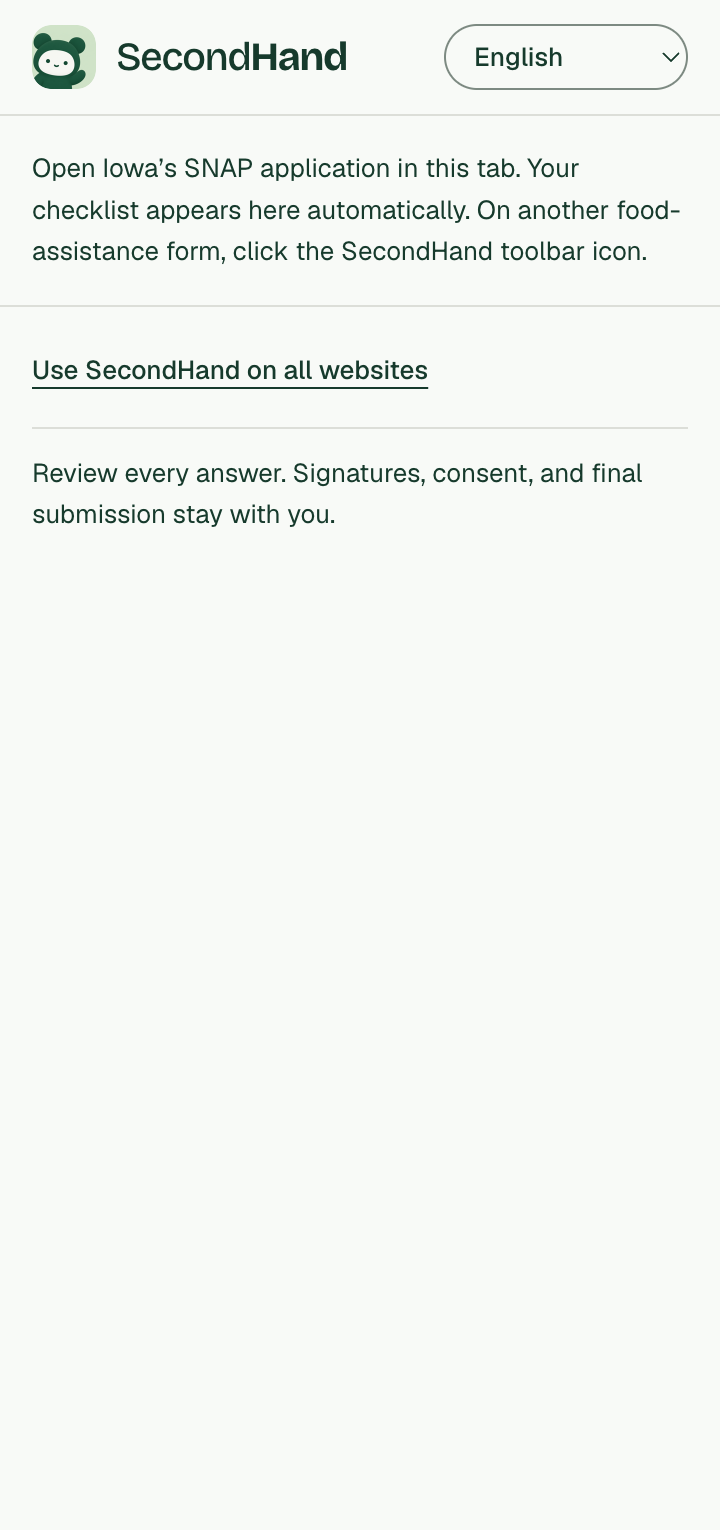
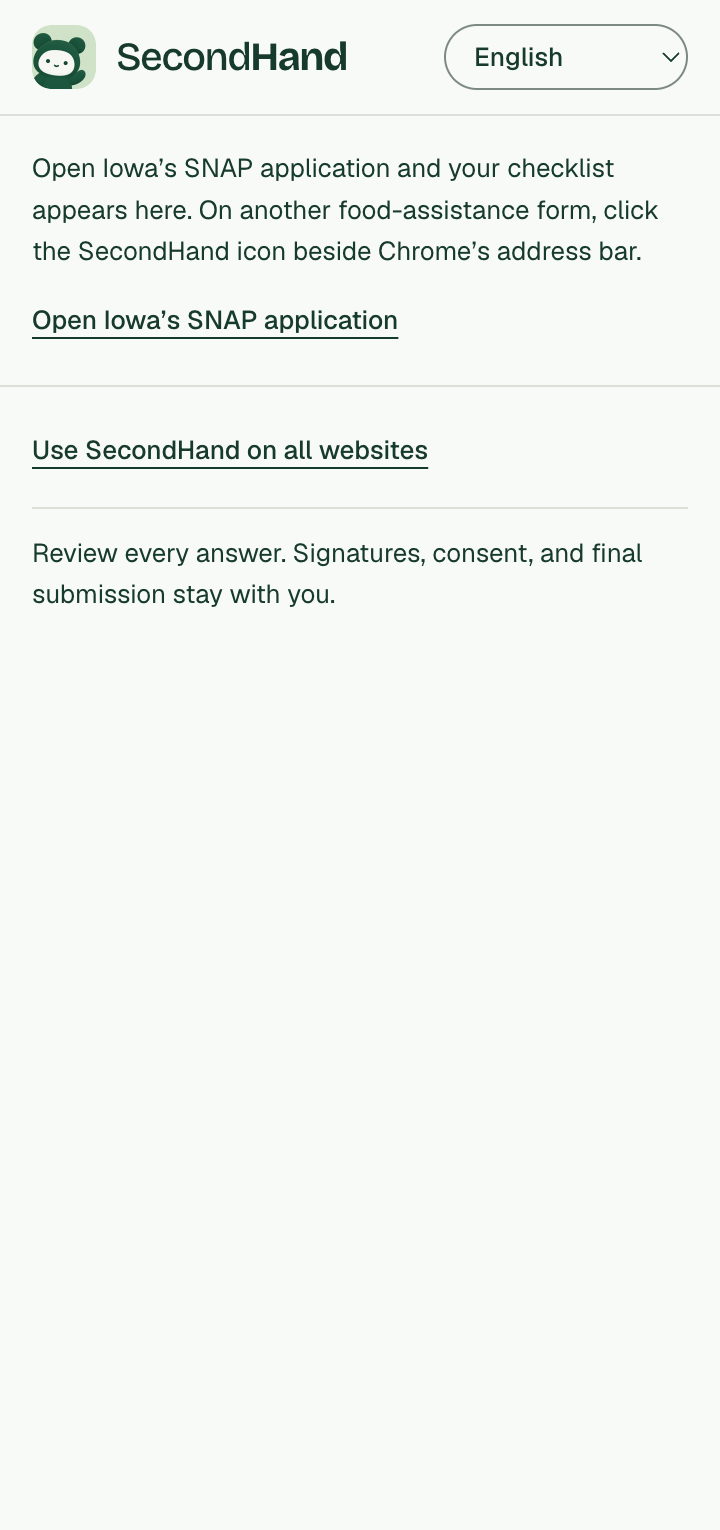
feat: link to Iowa's application where the side panel has nothing to read
On a tab SecondHand can't read, the side panel told people to open Iowa's
SNAP application and gave them no way to. It now ends in a link, "Open
Iowa's SNAP application", to the portal address SecondHand's Iowa script
runs on. It opens beside the page the reader has.

The line above it drops "in this tab" and "toolbar icon" for words
people know: "click the SecondHand icon beside Chrome's address bar".

Changed region(s): [[0.0306, 0.0922, 0.9472, 0.3993]]

diff --git a/extension/strings.js b/extension/strings.js
@@ -77,7 +77,8 @@
     'panel.reloadToRead': 'Reload this page so SecondHand can read it.',
     'panel.siteOff': 'SecondHand can fill forms on {host} after you turn it on here and approve it in the SecondHand app.',
     'panel.nothingToFill': 'Nothing to fill on this page. Continue in Iowa’s form.',
-    'panel.openIowa': 'Open Iowa’s SNAP application in this tab. Your checklist appears here automatically. On another food-assistance form, click the SecondHand toolbar icon.',
+    'panel.openIowa': 'Open Iowa’s SNAP application and your checklist appears here. On another food-assistance form, click the SecondHand icon beside Chrome’s address bar.',
+    'panel.openIowaLink': 'Open Iowa’s SNAP application',
     'panel.stopping': 'Stopping autofill…',
     'panel.filling': 'Filling your saved answers…',
     'panel.fieldOffScreen': 'That field isn’t on screen right now. Find it in Iowa’s form.',
@@ -412,7 +413,8 @@
     'panel.reloadToRead': 'Recargue esta página para que SecondHand pueda leerla.',
     'panel.siteOff': 'SecondHand puede llenar formularios en {host} después de que lo active aquí y lo apruebe en la aplicación SecondHand.',
     'panel.nothingToFill': 'No hay nada que llenar en esta página. Continúe en el formulario de Iowa.',
-    'panel.openIowa': 'Abra la solicitud de SNAP de Iowa en esta pestaña. Su lista aparecerá aquí automáticamente. En otro formulario de ayuda alimentaria, haga clic en el ícono de SecondHand en la barra de herramientas.',
+    'panel.openIowa': 'Abra la solicitud de SNAP de Iowa y su lista aparecerá aquí. En otro formulario de ayuda alimentaria, haga clic en el ícono de SecondHand junto a la barra de direcciones de Chrome.',
+    'panel.openIowaLink': 'Abrir la solicitud de SNAP de Iowa',
     'panel.stopping': 'Deteniendo Autocompletar…',
     'panel.filling': 'Llenando sus respuestas guardadas…',
     'panel.fieldOffScreen': 'Ese campo no está en la pantalla ahora. Búsquelo en el formulario de Iowa.',
@@ -744,7 +746,8 @@
     'panel.reloadToRead': 'Hãy tải lại trang này để SecondHand có thể đọc.',
     'panel.siteOff': 'SecondHand có thể điền biểu mẫu trên {host} sau khi bạn bật tại đây và chấp thuận trong ứng dụng SecondHand.',
     'panel.nothingToFill': 'Trang này không có gì để điền. Hãy tiếp tục trong biểu mẫu của Iowa.',
-    'panel.openIowa': 'Hãy mở đơn SNAP của Iowa trong thẻ này. Danh sách kiểm tra sẽ tự hiện ở đây. Với biểu mẫu hỗ trợ thực phẩm khác, hãy bấm biểu tượng SecondHand trên thanh công cụ.',
+    'panel.openIowa': 'Hãy mở đơn SNAP của Iowa, danh sách kiểm tra sẽ hiện ở đây. Với biểu mẫu hỗ trợ thực phẩm khác, hãy bấm biểu tượng SecondHand cạnh thanh địa chỉ của Chrome.',
+    'panel.openIowaLink': 'Mở đơn SNAP của Iowa',
     'panel.stopping': 'Đang dừng tự điền…',
     'panel.filling': 'Đang điền các câu trả lời đã lưu…',
     'panel.fieldOffScreen': 'Ô đó hiện không có trên màn hình. Hãy tìm nó trong biểu mẫu của Iowa.',
@@ -1077,7 +1080,8 @@
     'panel.reloadToRead': '请重新加载此页面，以便 SecondHand 读取。',
     'panel.siteOff': '在此处开启并在 SecondHand 应用中批准后，SecondHand 才能在 {host} 上填写表格。',
     'panel.nothingToFill': '此页面没有可填写的内容。请在爱荷华州的表格中继续。',
-    'panel.openIowa': '请在此标签页中打开爱荷华州的 SNAP 申请。您的核对清单会自动显示在这里。如果是其他食物援助表格，请点击工具栏上的 SecondHand 图标。',
+    'panel.openIowa': '打开爱荷华州的 SNAP 申请，您的核对清单就会显示在这里。如果是其他食物援助表格，请点击 Chrome 地址栏旁的 SecondHand 图标。',
+    'panel.openIowaLink': '打开爱荷华州的 SNAP 申请',
     'panel.stopping': '正在停止自动填写…',
     'panel.filling': '正在填写您保存的答案…',
     'panel.fieldOffScreen': '该栏位现在不在屏幕上。请在爱荷华州的表格中找到它。',
@@ -1410,7 +1414,8 @@
     'panel.reloadToRead': 'Rechargez cette page pour que SecondHand puisse la lire.',
     'panel.siteOff': 'SecondHand pourra remplir les formulaires sur {host} après que vous l’aurez activé ici et approuvé dans l’application SecondHand.',
     'panel.nothingToFill': 'Rien à remplir sur cette page. Continuez dans le formulaire de l’Iowa.',
-    'panel.openIowa': 'Ouvrez la demande SNAP de l’Iowa dans cet onglet. Votre liste de contrôle apparaîtra ici automatiquement. Pour un autre formulaire d’aide alimentaire, cliquez sur l’icône SecondHand de la barre d’outils.',
+    'panel.openIowa': 'Ouvrez la demande SNAP de l’Iowa et votre liste de contrôle apparaîtra ici. Pour un autre formulaire d’aide alimentaire, cliquez sur l’icône SecondHand à côté de la barre d’adresse de Chrome.',
+    'panel.openIowaLink': 'Ouvrir la demande SNAP de l’Iowa',
     'panel.stopping': 'Arrêt du remplissage…',
     'panel.filling': 'Remplissage de vos réponses enregistrées…',
     'panel.fieldOffScreen': 'Ce champ n’est pas à l’écran pour le moment. Trouvez-le dans le formulaire de l’Iowa.',
@@ -1743,7 +1748,8 @@
     'panel.reloadToRead': 'أعد تحميل هذه الصفحة ليتمكن SecondHand من قراءتها.',
     'panel.siteOff': 'يمكن لـ SecondHand تعبئة النماذج على {host} بعد أن تشغّله هنا وتوافق عليه في تطبيق SecondHand.',
     'panel.nothingToFill': 'لا يوجد ما يُعبّأ في هذه الصفحة. تابع في نموذج أيوا.',
-    'panel.openIowa': 'افتح طلب SNAP الخاص بأيوا في علامة التبويب هذه. ستظهر قائمة التحقق هنا تلقائيًا. لنموذج آخر للمساعدة الغذائية، انقر على أيقونة SecondHand في شريط الأدوات.',
+    'panel.openIowa': 'افتح طلب SNAP الخاص بأيوا وستظهر قائمة التحقق هنا. لنموذج آخر للمساعدة الغذائية، انقر على أيقونة SecondHand بجانب شريط العناوين في Chrome.',
+    'panel.openIowaLink': 'فتح طلب SNAP الخاص بأيوا',
     'panel.stopping': 'جارٍ إيقاف التعبئة التلقائية…',
     'panel.filling': 'جارٍ تعبئة إجاباتك المحفوظة…',
     'panel.fieldOffScreen': 'هذا الحقل غير ظاهر على الشاشة الآن. ابحث عنه في نموذج أيوا.',

diff --git a/extension/panel.css b/extension/panel.css
@@ -16,7 +16,7 @@ button,select{font:inherit;color:inherit;cursor:pointer;-webkit-tap-highlight-co
 .button{display:inline-flex;align-items:center;justify-content:center;min-height:44px;padding:10px 20px;border:1px solid transparent;border-radius:100px;font-size:14px;font-weight:500;line-height:1.3;text-align:center}.full{width:100%;margin-bottom:12px}
 .primary{background:var(--primary);color:#fff}.primary:hover:enabled{background:var(--pressed)}
 .secondary{background:#fff;border-color:var(--control)}.secondary:hover:enabled{background:var(--muted)}
-.text-button{display:flex;align-items:center;width:fit-content;min-height:32px;margin-bottom:4px;padding:0;border:0;background:none;font-weight:500;text-align:start;text-decoration:underline;text-underline-offset:4px}.text-button:hover:enabled{text-decoration-thickness:2px}.status+.text-button{margin:-4px 0 12px}
+.text-button{display:flex;align-items:center;width:fit-content;min-height:32px;margin-bottom:4px;padding:0;border:0;background:none;font-weight:500;text-align:start;text-decoration:underline;text-underline-offset:4px}.text-button:hover:enabled,a.text-button:hover{text-decoration-thickness:2px}a.text-button{color:inherit}.actions>.text-button{margin:-4px 0 12px}
 /* On-page widget: an extension iframe the page cannot script. It is as tall as what it holds, 46px for its row alone,
    and asks for a frame that size; the row sits at the bottom, so its button stays where it was when a line comes or goes. */
 body.launcher-surface{background:none}#launcher{width:100%;height:100%;display:flex;align-items:flex-end;justify-content:center}#widget{width:max-content;max-width:272px;margin-inline-start:auto}
@@ -44,7 +44,7 @@ main{padding:0 16px}
 /* Autofill and what it last said stay in view while the lists scroll under them, unless the panel is short,
    as it is zoomed in: then they scroll away with the rest. With nothing to show, the strip takes no room. */
 .actions{position:sticky;top:0;z-index:1;margin:0 -16px 16px;padding:16px 16px 4px;background:var(--background);border-bottom:1px solid var(--border)}@media(max-height:480px){.actions{position:static}}
-.actions:not(:has(>button:not([hidden]),>.status:not(:empty):not([hidden]))){margin-bottom:0;padding:16px 0 0;border:0}
+.actions:not(:has(>button:not([hidden]),>a:not([hidden]),>.status:not(:empty):not([hidden]))){margin-bottom:0;padding:16px 0 0;border:0}
 /* The app needs opening or unlocking. */
 .desktop-row{display:flex;flex-wrap:wrap;justify-content:space-between;align-items:center;gap:8px 12px;margin:16px 0 0;padding:12px 14px;background:#fff;border:1px solid var(--border);border-radius:12px}.desktop-row>span{flex:1 1 140px;font-weight:500}.desktop-row.error>span{color:var(--danger)}.desktop-row .button{min-height:36px;padding:6px 16px;font-size:13px}
 /* What happened, then the small print. An empty status keeps its place for screen readers and takes no room. */

diff --git a/extension/panel.js b/extension/panel.js
@@ -405,8 +405,9 @@
       $('status').textContent = shown.message ? words(shown.message, 650) : '';
       $('status').classList.toggle('error', shown.error);
     }
-    // On a tab SecondHand can't read: where to go.
-    const elsewhere = () => ({ key: allSites ? 'panel.openForm' : 'panel.openIowa' });
+    // On a tab SecondHand can't read: where to go, with a link to Iowa's application.
+    let away = false;
+    const elsewhere = () => { away = true; return { key: allSites ? 'panel.openForm' : 'panel.openIowa' }; };
     // The desktop row shows only while the app needs opening or unlocking, or can't be reached.
     function renderDesktop() {
       $('desktop-status').parentElement.hidden = !desktopLine;
@@ -461,6 +462,7 @@
       // Where the questions left are listed by name, each row goes to its own.
       $('panel-left').hidden = !target || !left.length || named.length > 0;
       $('panel-left').disabled = working;
+      $('open-iowa').hidden = Boolean(target) || !away || halted;
       $('panel-left').textContent = t('panel.goToLeft', { count: left.length || 1 });
       $('panel-autofill').disabled = !target || (!fillable && !autopilot) || working;
       document.querySelectorAll('.checklist-item').forEach(button => { button.disabled = working || !target; });
@@ -628,13 +630,14 @@
           const [tab] = await chrome.tabs.query({ active: true, currentWindow: true });
           if (revision !== contextRevision || stopped) return;
           if (!tab || !Number.isInteger(tab.id) || (!supportedUrl(tab.url) && !siteUrl(tab.url))) {
-            target = null; nowhere = true; clearPage(); controls();
+            target = null; nowhere = true; clearPage();
             show(elsewhere());
+            controls();
             return;
           }
           if (!target || target.id !== tab.id || target.url !== tab.url) {
             contextRevision++; revision = contextRevision;
-            clearPage(); target = { id: tab.id, url: tab.url }; nowhere = false;
+            clearPage(); target = { id: tab.id, url: tab.url }; nowhere = false; away = false;
           }
           target.status = tab.status;
           const state = await send({ type: 'ui:pageState', tabId: tab.id });

diff --git a/extension/panel.html b/extension/panel.html
@@ -55,6 +55,7 @@
         <button id="panel-autofill" class="button primary full" type="button" data-i18n="panel.autofill" disabled hidden></button>
         <div id="status" class="status" role="status" aria-live="polite" data-i18n="panel.checkingTab"></div>
         <button id="panel-left" class="text-button" type="button" hidden></button>
+        <a id="open-iowa" class="text-button" href="https://hhsservices.iowa.gov/apspssp/ssp.portal" target="_blank" rel="noopener noreferrer" data-i18n="panel.openIowaLink" hidden></a>
         <p id="iowa-policy" class="status" data-i18n="panel.iowaPolicy" hidden></p>
       </div>
       <p id="laya-status" class="note" hidden></p>
